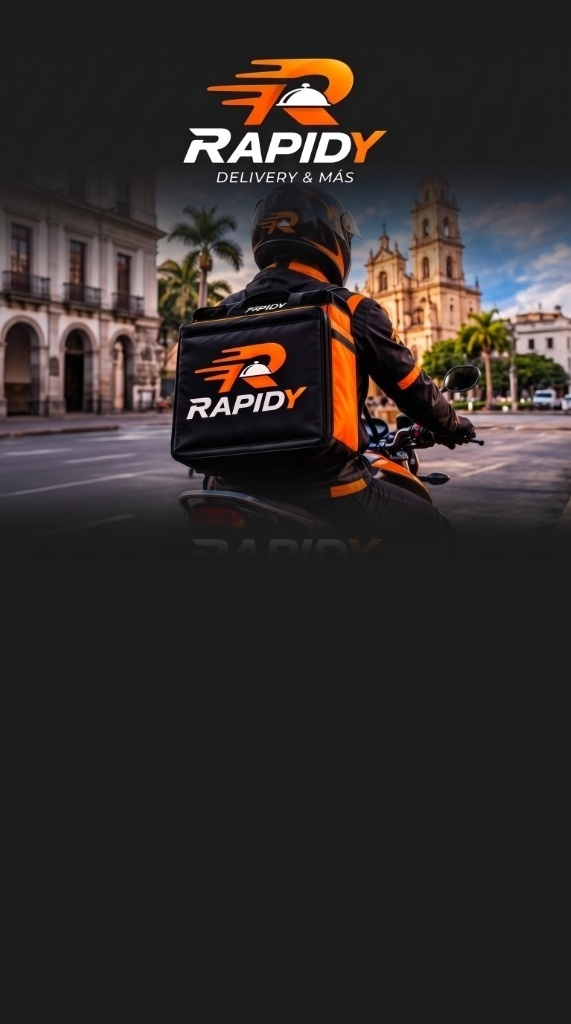
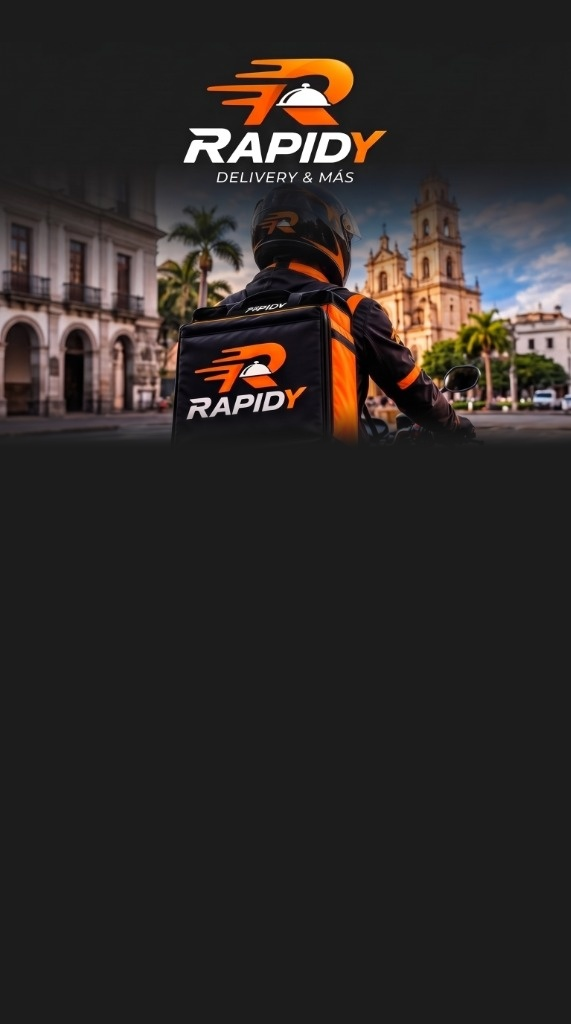
fix(welcome): optimizar espaciado responsive en pantallas cortas y eliminar sombras residuales del fondo

Changed region(s): [[0.4764, 0.375, 1.0, 0.5312], [0.0, 0.4062, 0.4466, 0.5]]

diff --git a/src/pages/customer/Welcome.tsx b/src/pages/customer/Welcome.tsx
@@ -5,113 +5,115 @@ export default function Welcome() {
   const navigate = useNavigate();
 
   return (
-    <div className="mobile-container relative min-h-[100dvh] bg-[#1C1C1C] flex flex-col justify-between overflow-x-hidden select-none">
-      {/* Background Hero Image (Motorcycle rider + city, fading seamlessly to #1C1C1C) */}
-      <div className="absolute inset-0 z-0 pointer-events-none">
-        <img
-          src="/welcome-clean-bg.jpg"
-          alt="Rapidy Hero Background"
-          className="w-full h-full object-cover object-top"
-        />
-        {/* Subtle gradient to ensure bottom content readability on any viewport */}
-        <div className="absolute inset-x-0 bottom-0 h-1/2 bg-gradient-to-t from-[#1C1C1C] via-[#1C1C1C]/90 to-transparent" />
-      </div>
-
-      {/* Top spacer (leaves room for the top logo and rider in the background) */}
-      <div className="relative z-10 flex-1 min-h-[38vh] sm:min-h-[42vh]" />
-
-      {/* Bottom Content Area: Logo, Slogan, Feature Pills, and Interactive Buttons */}
-      <div className="relative z-10 w-full px-6 pb-6 pt-2 flex flex-col items-center">
-        {/* Stylized Brand Logo */}
-        <div className="flex items-center justify-center tracking-tight mb-1.5">
-          <span className="text-3xl sm:text-4xl font-black italic text-white tracking-wider">
-            RAPID
-          </span>
-          <span className="text-3xl sm:text-4xl font-black italic text-[#FF6A00] tracking-wider">
-            Y
-          </span>
+    <div className="w-full min-h-[100dvh] bg-[#121212] flex items-center justify-center">
+      <div className="mobile-container relative w-full min-h-[100dvh] bg-[#1C1C1C] flex flex-col justify-between overflow-x-hidden overflow-y-auto select-none shadow-2xl">
+        {/* Background Hero Image (Motorcycle rider + city, fading seamlessly to #1C1C1C) */}
+        <div className="absolute inset-0 z-0 pointer-events-none">
+          <img
+            src="/welcome-clean-bg.jpg"
+            alt="Rapidy Hero Background"
+            className="w-full h-full object-cover object-top"
+          />
+          {/* Subtle gradient to ensure bottom content readability on any viewport */}
+          <div className="absolute inset-x-0 bottom-0 h-1/2 bg-gradient-to-t from-[#1C1C1C] via-[#1C1C1C]/90 to-transparent" />
         </div>
 
-        {/* Brand Slogan */}
-        <h1 className="text-2xl sm:text-3xl font-extrabold text-white text-center leading-tight tracking-tight max-w-xs mb-4">
-          Todo lo que quieras,<br />en un solo pedido
-        </h1>
+        {/* Top spacer (leaves room for the top logo and rider in the background) */}
+        <div className="relative z-10 flex-1 min-h-[32vh] sm:min-h-[40vh]" />
 
-        {/* 3 Distintivos Informativos (Pills) */}
-        <div className="flex items-center justify-center gap-2 mb-6 w-full max-w-xs">
-          <div className="bg-[#242424]/90 border border-white/10 px-3 py-1.5 rounded-full flex items-center gap-1.5 shadow-sm">
-            <Clock className="w-3.5 h-3.5 text-[#FF7A00]" />
-            <span className="text-[11px] sm:text-xs font-medium text-white/90 whitespace-nowrap">
-              Envío rápido
+        {/* Bottom Content Area: Logo, Slogan, Feature Pills, and Interactive Buttons */}
+        <div className="relative z-10 w-full px-5 pb-5 sm:px-6 sm:pb-6 pt-1 flex flex-col items-center">
+          {/* Stylized Brand Logo */}
+          <div className="flex items-center justify-center tracking-tight mb-1 sm:mb-1.5">
+            <span className="text-2xl sm:text-3xl lg:text-4xl font-black italic text-white tracking-wider">
+              RAPID
+            </span>
+            <span className="text-2xl sm:text-3xl lg:text-4xl font-black italic text-[#FF6A00] tracking-wider">
+              Y
             </span>
           </div>
 
-          <div className="bg-[#242424]/90 border border-white/10 px-3 py-1.5 rounded-full flex items-center gap-1.5 shadow-sm">
-            <Timer className="w-3.5 h-3.5 text-[#FF7A00]" />
-            <span className="text-[11px] sm:text-xs font-medium text-white/90 whitespace-nowrap">
-              En minutos
-            </span>
+          {/* Brand Slogan */}
+          <h1 className="text-xl sm:text-2xl lg:text-3xl font-extrabold text-white text-center leading-tight tracking-tight max-w-xs mb-3 sm:mb-4">
+            Todo lo que quieras,<br />en un solo pedido
+          </h1>
+
+          {/* 3 Distintivos Informativos (Pills) */}
+          <div className="flex items-center justify-center gap-1.5 sm:gap-2 mb-4 sm:mb-6 w-full max-w-xs">
+            <div className="bg-[#242424]/90 border border-white/10 px-2.5 sm:px-3 py-1 sm:py-1.5 rounded-full flex items-center gap-1 sm:gap-1.5 shadow-sm">
+              <Clock className="w-3 h-3 sm:w-3.5 sm:h-3.5 text-[#FF7A00]" />
+              <span className="text-[10px] sm:text-xs font-medium text-white/90 whitespace-nowrap">
+                Envío rápido
+              </span>
+            </div>
+
+            <div className="bg-[#242424]/90 border border-white/10 px-2.5 sm:px-3 py-1 sm:py-1.5 rounded-full flex items-center gap-1 sm:gap-1.5 shadow-sm">
+              <Timer className="w-3 h-3 sm:w-3.5 sm:h-3.5 text-[#FF7A00]" />
+              <span className="text-[10px] sm:text-xs font-medium text-white/90 whitespace-nowrap">
+                En minutos
+              </span>
+            </div>
+
+            <div className="bg-[#242424]/90 border border-white/10 px-2.5 sm:px-3 py-1 sm:py-1.5 rounded-full flex items-center gap-1 sm:gap-1.5 shadow-sm">
+              <ShieldCheck className="w-3 h-3 sm:w-3.5 sm:h-3.5 text-[#FF7A00]" />
+              <span className="text-[10px] sm:text-xs font-medium text-white/90 whitespace-nowrap">
+                Calidad
+              </span>
+            </div>
           </div>
 
-          <div className="bg-[#242424]/90 border border-white/10 px-3 py-1.5 rounded-full flex items-center gap-1.5 shadow-sm">
-            <ShieldCheck className="w-3.5 h-3.5 text-[#FF7A00]" />
-            <span className="text-[11px] sm:text-xs font-medium text-white/90 whitespace-nowrap">
-              Calidad
-            </span>
-          </div>
-        </div>
-
-        {/* Action Buttons & Links */}
-        <div className="w-full max-w-sm space-y-3">
-          {/* Botón Principal: CREAR CUENTA */}
-          <button
-            onClick={() => navigate("/register")}
-            className="w-full h-14 bg-gradient-to-r from-[#FF5E00] to-[#FF7A00] hover:from-[#ff6b14] hover:to-[#ff8514] active:scale-[0.98] text-white font-black text-base tracking-wider uppercase rounded-full shadow-[0_4px_24px_rgba(255,106,0,0.5)] transition-all touch-target flex items-center justify-center cursor-pointer"
-          >
-            Crear cuenta
-          </button>
-
-          {/* Botón Secundario: INICIAR SESIÓN */}
-          <button
-            onClick={() => navigate("/customer-login")}
-            className="w-full h-14 bg-transparent hover:bg-white/10 active:scale-[0.98] border-2 border-white text-white font-black text-base tracking-wider uppercase rounded-full transition-all touch-target flex items-center justify-center cursor-pointer backdrop-blur-xs"
-          >
-            Iniciar sesión
-          </button>
-
-          {/* Enlace para Socios / Repartidores */}
-          <div className="pt-2 text-center">
+          {/* Action Buttons & Links */}
+          <div className="w-full max-w-sm space-y-2.5 sm:space-y-3">
+            {/* Botón Principal: CREAR CUENTA */}
             <button
-              onClick={() => navigate("/login")}
-              className="text-sm font-medium text-[#FF7A00] hover:text-[#ff9233] transition-colors cursor-pointer"
+              onClick={() => navigate("/register")}
+              className="w-full h-12 sm:h-14 bg-gradient-to-r from-[#FF5E00] to-[#FF7A00] hover:from-[#ff6b14] hover:to-[#ff8514] active:scale-[0.98] text-white font-black text-sm sm:text-base tracking-wider uppercase rounded-full shadow-[0_4px_24px_rgba(255,106,0,0.5)] transition-all touch-target flex items-center justify-center cursor-pointer"
             >
-              ¿Eres comercio o repartidor?{" "}
-              <span className="underline font-semibold">Ingresa aquí</span>
+              Crear cuenta
             </button>
-          </div>
 
-          {/* Enlaces Legales Inferiores */}
-          <div className="pt-4 text-center text-xs text-white/40 space-x-2">
+            {/* Botón Secundario: INICIAR SESIÓN */}
             <button
-              onClick={() => navigate("/terminos-y-condiciones")}
-              className="hover:underline hover:text-white/70 transition-colors"
+              onClick={() => navigate("/customer-login")}
+              className="w-full h-12 sm:h-14 bg-transparent hover:bg-white/10 active:scale-[0.98] border-2 border-white text-white font-black text-sm sm:text-base tracking-wider uppercase rounded-full transition-all touch-target flex items-center justify-center cursor-pointer backdrop-blur-xs"
             >
-              Términos
+              Iniciar sesión
             </button>
-            <span>•</span>
-            <button
-              onClick={() => navigate("/politica-de-privacidad")}
-              className="hover:underline hover:text-white/70 transition-colors"
-            >
-              Privacidad
-            </button>
-            <span>•</span>
-            <button
-              onClick={() => navigate("/legal")}
-              className="hover:underline hover:text-white/70 transition-colors"
-            >
-              Centro Legal
-            </button>
+
+            {/* Enlace para Socios / Repartidores */}
+            <div className="pt-1 sm:pt-2 text-center">
+              <button
+                onClick={() => navigate("/login")}
+                className="text-xs sm:text-sm font-medium text-[#FF7A00] hover:text-[#ff9233] transition-colors cursor-pointer"
+              >
+                ¿Eres comercio o repartidor?{" "}
+                <span className="underline font-semibold">Ingresa aquí</span>
+              </button>
+            </div>
+
+            {/* Enlaces Legales Inferiores */}
+            <div className="pt-2 sm:pt-4 text-center text-[11px] sm:text-xs text-white/40 space-x-2">
+              <button
+                onClick={() => navigate("/terminos-y-condiciones")}
+                className="hover:underline hover:text-white/70 transition-colors"
+              >
+                Términos
+              </button>
+              <span>•</span>
+              <button
+                onClick={() => navigate("/politica-de-privacidad")}
+                className="hover:underline hover:text-white/70 transition-colors"
+              >
+                Privacidad
+              </button>
+              <span>•</span>
+              <button
+                onClick={() => navigate("/legal")}
+                className="hover:underline hover:text-white/70 transition-colors"
+              >
+                Centro Legal
+              </button>
+            </div>
           </div>
         </div>
       </div>
